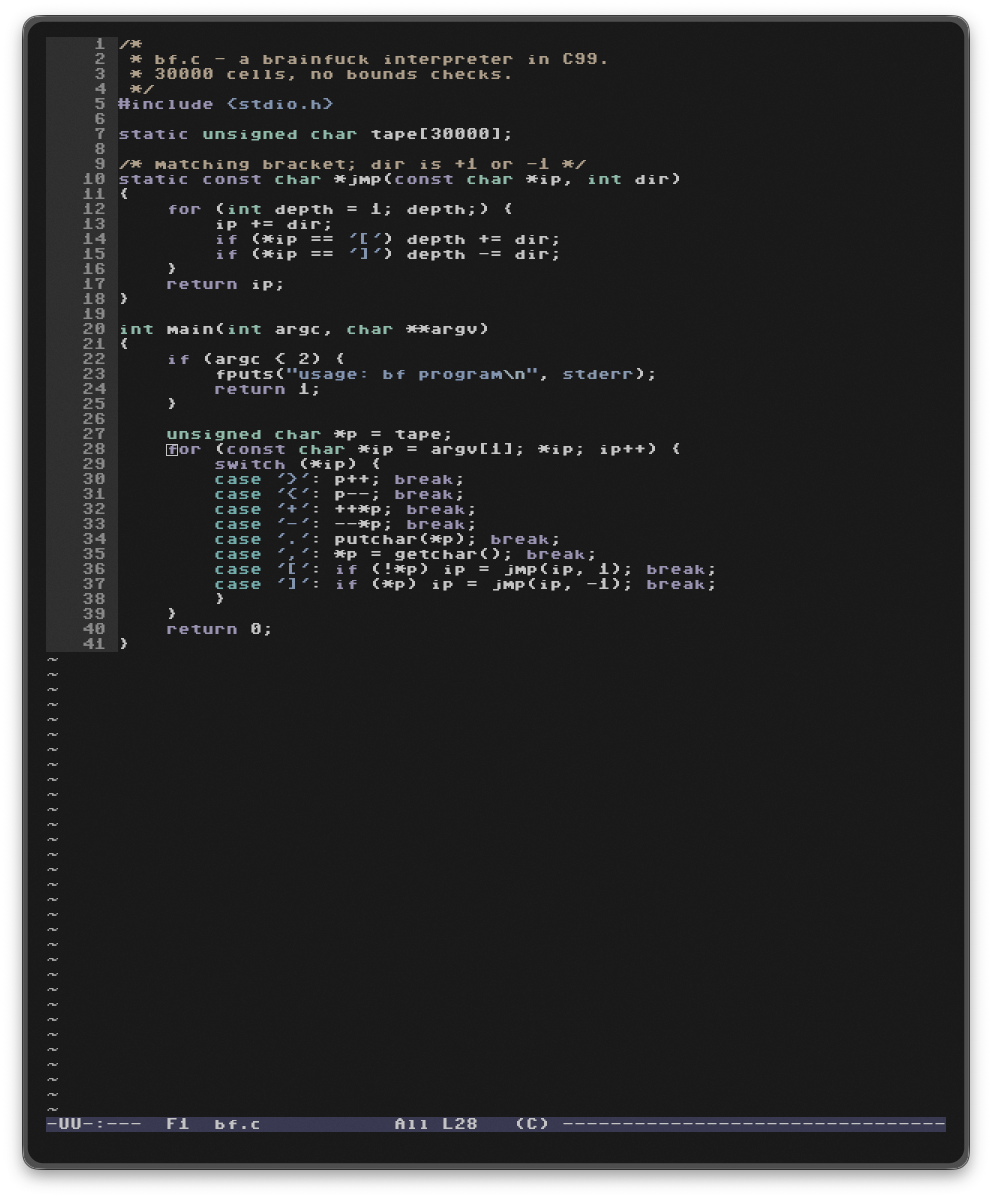
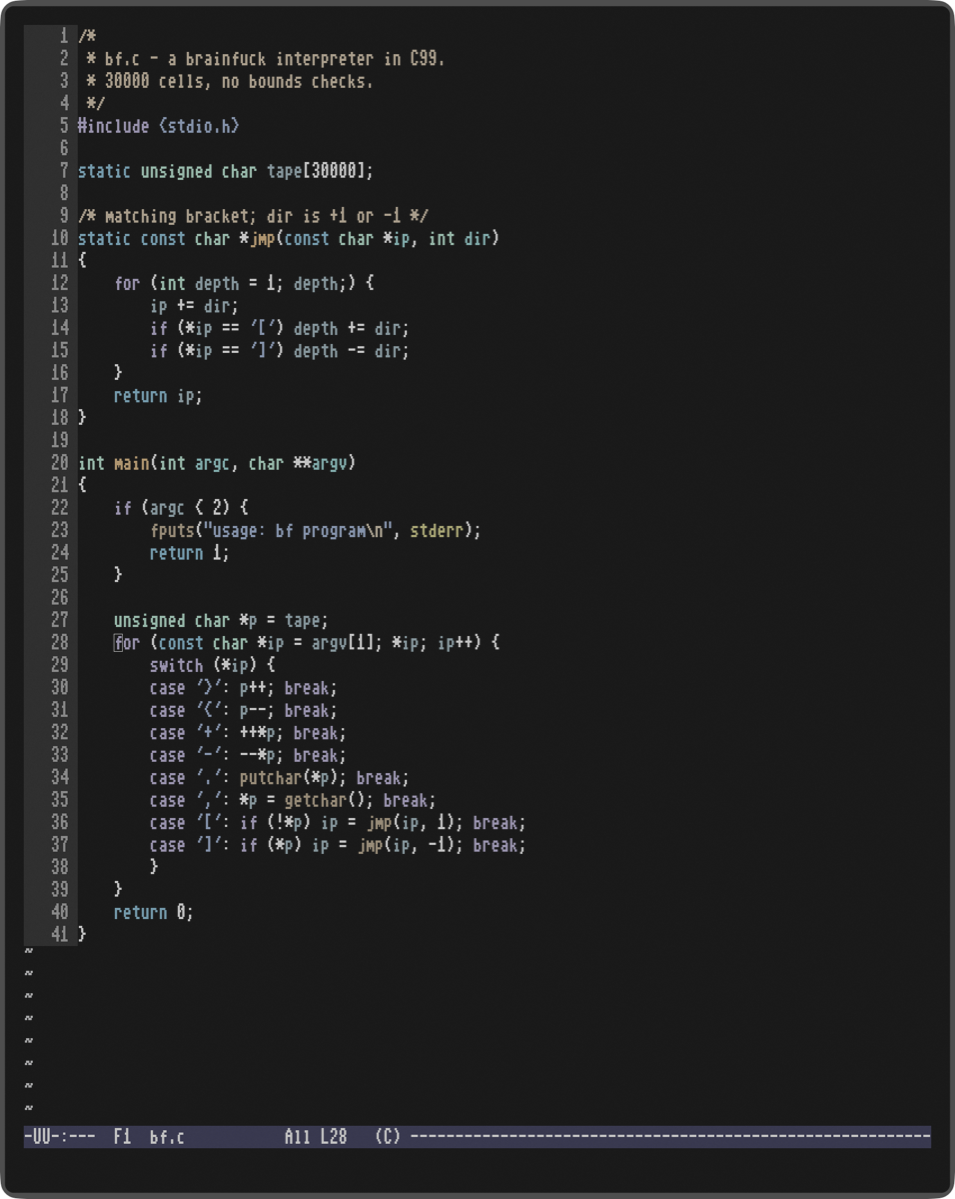
feat(cmode): C64 font is now Pet Me 64 2Y at a pixel-exact size

diff --git a/README.md b/README.md
@@ -41,7 +41,7 @@ A separate terminal for writing C, set up like an old console: bare prompt, plai
 cmode                # Ghostty, in the current directory
 cmode ~/src/kilo     # somewhere else
 cmode --kitty        # kitty instead of Ghostty
-cmode --c64          # Commodore 64 font
+cmode --c64          # Commodore 64 font (Ghostty only)
 cmode --no-crt       # Ghostty without the CRT effect
 ```
 
@@ -105,7 +105,7 @@ brew bundle
 ./install.sh
 ```
 
-`install.sh` symlinks the configs into place and checks that yabai and skhd still have their macOS permissions. It also downloads C64 Pro Mono, since that font can't be redistributed.
+`install.sh` symlinks the configs into place and checks that yabai and skhd still have their macOS permissions. It also downloads the Commodore 64 font (Pet Me 64 2Y), which Homebrew doesn't have.
 
 yabai isn't in the Brewfile. I run my own fork with fixes for macOS 27, see `yabai/README.md`.
 
